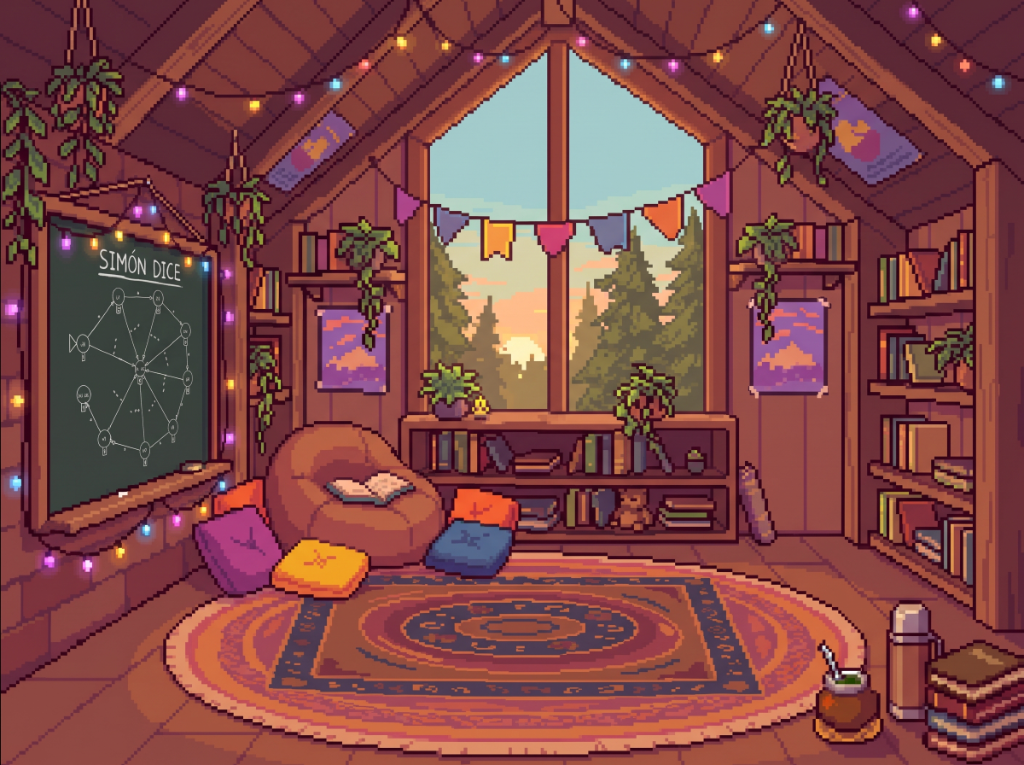
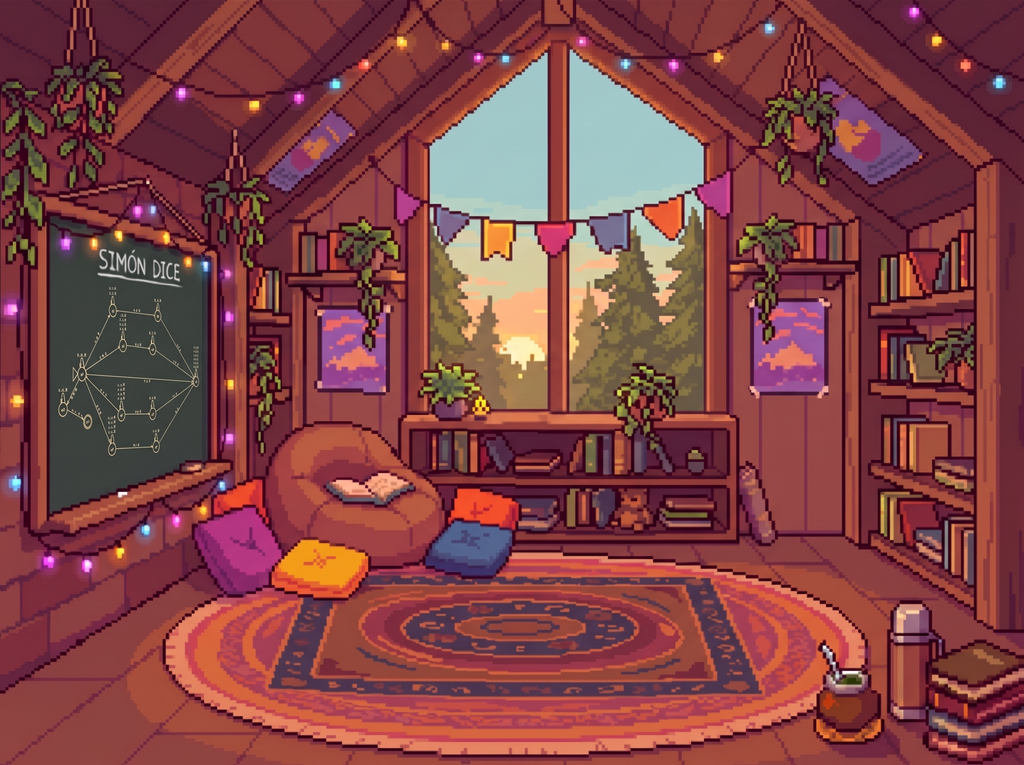
Agrego el .jff del Autómata de Pila. Hice un par de cambios en las imágenes.

diff --git a/src/main.py b/src/main.py
@@ -16,7 +16,7 @@ class ControladorSimonDice:
 
         self.secuencia_actual = ""
         self.estado_juego = "ESPERANDO"
-       ## self.secuencia_maestra = "vnaaz" # Secuencia PRUEBA BnfGeneradorSecuencia reemplaza la generacion fija 
+        ## self.secuencia_maestra = "vnaaz" # Secuencia PRUEBA BnfGeneradorSecuencia reemplaza la generacion fija 
         
         # Instanciamos el generador basado en BNF
         self.generador_bnf = BnfGeneradorSecuencias()
@@ -79,7 +79,7 @@ class ControladorSimonDice:
         self.secuencia_maestra = self.generador_bnf.generar_secuencia(longitud=5)
         print(f"Nueva partida - Secuencia BNF: {self.secuencia_maestra}")
 
-        self.ventana.after(500, lambda: self.vista.reproducir_secuencia(self.secuencia_maestra))
+        self.ventana.after(1200, lambda: self.vista.reproducir_secuencia(self.secuencia_maestra))
 
         self.transicion_pestaneo(_cambiar)
 
@@ -90,7 +90,7 @@ class ControladorSimonDice:
             self.vista = VistaSimonDice(self.ventana, self.procesar_color, self.reiniciar_juego, self.mostrar_menu, modo="REVERSO")
             self.secuencia_actual = ""
             self.estado_juego = "ESPERANDO"
-            self.ventana.after(500, lambda: self.vista.reproducir_secuencia(self.secuencia_maestra))
+            self.ventana.after(1200, lambda: self.vista.reproducir_secuencia(self.secuencia_maestra))
 
         self.transicion_pestaneo(_cambiar)
 
@@ -127,7 +127,7 @@ class ControladorSimonDice:
         self.estado_juego = "ESPERANDO"
         self.vista.reiniciar_interfaz()
         
-        self.ventana.after(500, lambda: self.vista.reproducir_secuencia(self.secuencia_maestra))
+        self.ventana.after(1200, lambda: self.vista.reproducir_secuencia(self.secuencia_maestra))
 
         # Generamos otra secuencia nueva al reiniciar
         self.secuencia_maestra = self.generador_bnf.generar_secuencia(longitud=5)

diff --git a/src/motor_AP.py b/src/motor_AP.py
@@ -23,13 +23,12 @@ class AutomataPila:
         for s in simbolos_pila:
             transitions['q0']['#'][s] = ('q1', (s,))
             
-        # Estado q1: Desapila en orden LIFO
+        # Estado q1: Desapila 
         for c_in, c_stack in colores.items():
             transitions['q1'][c_in] = {
                 c_stack: ('q1', '')
             }
             
-        # Transición épsilon/lambda ('') en q1: al quedar fondo '#', pasa a q2
         transitions['q1'][''] = {
             '#': ('q2', ('#',))
         }
@@ -54,6 +53,6 @@ class AutomataPila:
         except Exception:
             return 'P'
 
-        if len(ultima_config.stack) == 1:   # pila vacía (solo queda '#') -> aceptó de verdad
+        if len(ultima_config.stack) == 1:   # pila vacía (solo queda '#')
             return 'G'
         return 'B'

diff --git a/src/interfazInicio.py b/src/interfazInicio.py
@@ -23,7 +23,7 @@ class VistaInicioSimonDice:
         
         palabra = "SECUENCIA DE LUCES"
         self.letras_id = []
-        x_inicial = 370 
+        x_inicial = 355 
 
         for letra in palabra:
             id_texto = self.canvas.create_text(x_inicial, 260, text=letra, font=("Minecraft", 14, "bold"), fill="#F4E8C1")
